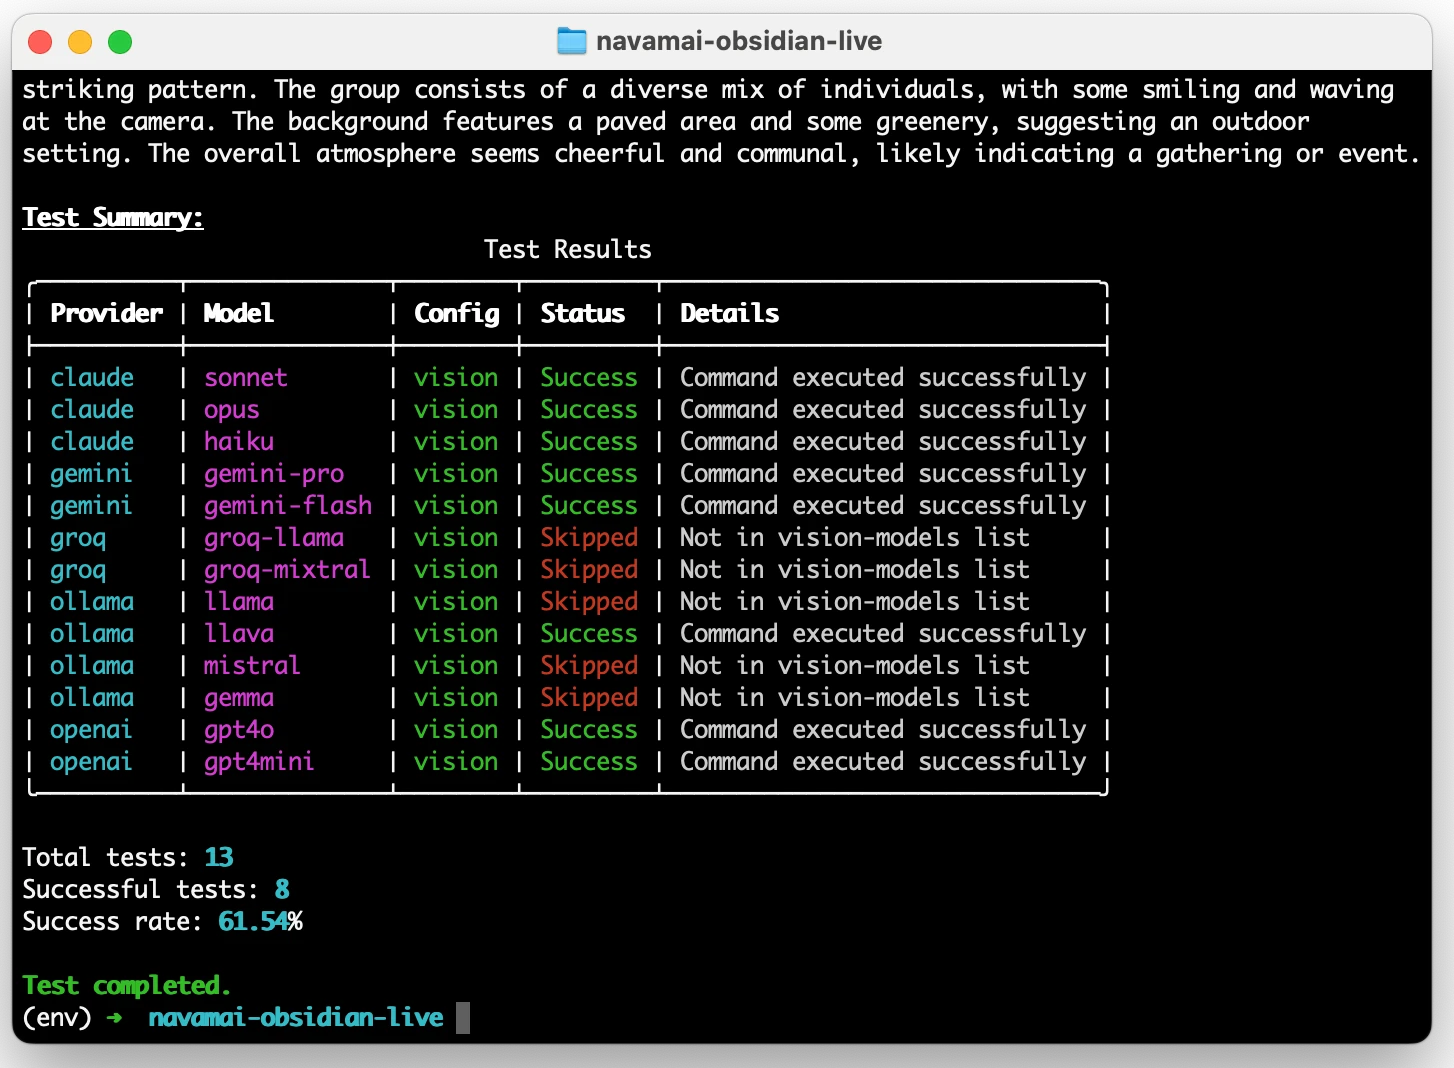
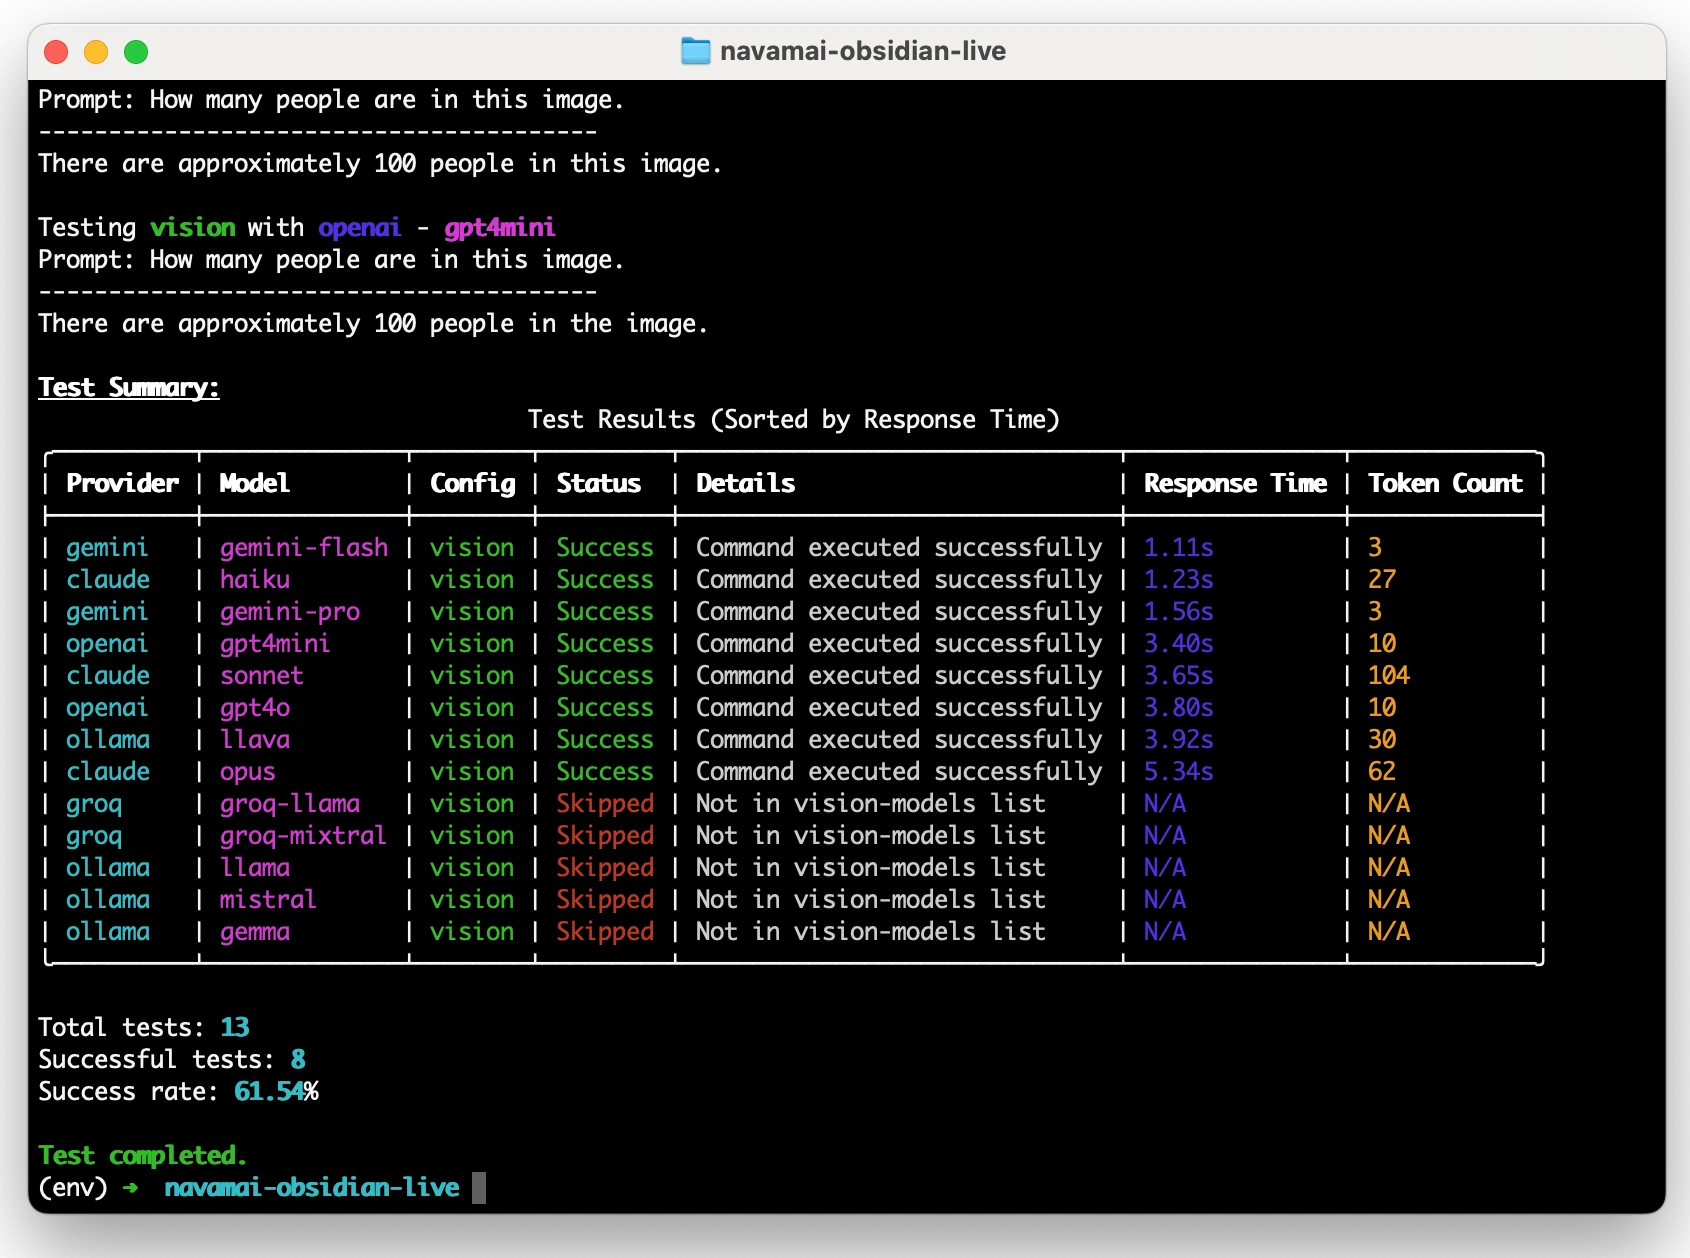
Released test and evaluate

Changed region(s): [[0.0, 0.0, 0.9904, 0.9888], [0.8975, 0.4017, 0.9285, 0.4326]]

diff --git a/src/navamai/cli.py b/src/navamai/cli.py
@@ -29,7 +29,8 @@ from PIL import Image
 import cv2
 
 import term_image.image as TermImage
-import subprocess
+import time
+import tiktoken
 
 console = Console()
 
@@ -104,6 +105,16 @@ def extract_error_info(error_message):
     return error_code, error_content
 
 
+def _count_tokens(text):
+    """Count the number of tokens in the given text."""
+    try:
+        encoding = tiktoken.encoding_for_model("gpt-3.5-turbo")
+        return len(encoding.encode(text))
+    except Exception:
+        # Fallback to a simple word count if tiktoken fails
+        return len(text.split())
+
+
 @click.group()
 def cli():
     pass
@@ -114,6 +125,7 @@ def test(model_config):
     """Test the specified model configuration across all compatible providers and models."""
     config = utils.load_config()
     provider_model_mapping = config.get('provider-model-mapping', {})
+    test_config = config.get('test', {})
     
     summary = []
 
@@ -126,18 +138,21 @@ def test(model_config):
             # Save the updated configuration
             utils.save_config(config)
 
-            # Prepare the command
+            # Get the prompt from the config file
             if model_config == 'ask':
-                cmd = ['navamai', 'ask', 'How old is the oldest pyramid.']
-            elif model_config == 'intents':
-                cmd = ['navamai', 'intents', 'Financial Analysis']
-            elif model_config == 'expand-intents':
-                cmd = ['navamai', 'expand-intents', 'Financial Analysis']
-            elif model_config == 'validate':
-                cmd = ['navamai', 'validate', 'Financial Analysis']
+                prompt = test_config.get('ask', 'How old is the oldest pyramid?')
             elif model_config == 'vision':
+                prompt = test_config.get('vision', 'How many people are in this image.')
+            elif model_config == 'intents':
+                prompt = 'Financial Analysis'
+            elif model_config == 'expand-intents':
+                prompt = 'Financial Analysis'
+            elif model_config == 'validate':
+                prompt = 'Financial Analysis'
+
+            if model_config == 'vision':
                 if model in config.get('vision-models', []):
-                    cmd = ['navamai', 'vision', '-p', 'Images/hackathon.jpg', 'Describe this image.']
+                    image_path = 'Images/hackathon.jpg'
                 else:
                     console.print(f"Skipping vision test for {provider} - {model} as it's not in the vision-models list.", style="yellow")
                     summary.append({
@@ -145,60 +160,85 @@ def test(model_config):
                         'Model': config[model_config]['model'],
                         'Config': model_config,
                         'Status': 'Skipped',
-                        'Details': 'Not in vision-models list'
+                        'Details': 'Not in vision-models list',
+                        'Response Time': float('inf'),  # Use infinity for sorting purposes
+                        'Token Count': 'N/A'
                     })
                     continue
 
             console.print(f"\nTesting [bold green]{model_config}[/bold green] with [bold blue]{provider}[/bold blue] - [bold magenta]{config[model_config]['model']}[/bold magenta]")
+            console.print(f"Prompt: [italic]{prompt}[/italic]")
             console.print("-" * 40)
 
             # Run the command
             try:
-                result = subprocess.run(cmd, capture_output=True, text=True, check=True)
-                console.print(result.stdout)
+                provider_instance = _get_provider_instance(provider)
+                provider_instance.set_model_config(model_config)
+
+                start_time = time.time()
+                with Live(console=console, refresh_per_second=8) as live:
+                    full_response = ""
+                    if model_config == 'vision':
+                        with open(image_path, 'rb') as img_file:
+                            image_data = img_file.read()
+                        for chunk in provider_instance.stream_vision_response(image_data, prompt):
+                            full_response += chunk
+                            live.update(Markdown(full_response))
+                    else:
+                        for chunk in provider_instance.stream_response(prompt):
+                            full_response += chunk
+                            live.update(Markdown(full_response))
+                end_time = time.time()
+
+                response_time = end_time - start_time
+                token_count = _count_tokens(full_response)
+
                 summary.append({
                     'Provider': provider,
                     'Model': config[model_config]['model'],
                     'Config': model_config,
                     'Status': 'Success',
-                    'Details': 'Command executed successfully'
-                })
-            except subprocess.CalledProcessError as e:
-                error_code, error_content = extract_error_info(e.stderr)
-                console.print(f"Error occurred (Code {error_code}): {error_content}", style="bold red")
-                summary.append({
-                    'Provider': provider,
-                    'Model': config[model_config]['model'],
-                    'Config': model_config,
-                    'Status': 'Failed',
-                    'Details': f"Error {error_code}: {error_content}"
+                    'Details': 'Command executed successfully',
+                    'Response Time': response_time,
+                    'Token Count': token_count
                 })
             except Exception as e:
-                console.print(f"An unexpected error occurred: {str(e)}", style="bold red")
+                error_message = str(e)
+                console.print(f"An error occurred: {error_message}", style="bold red")
                 summary.append({
                     'Provider': provider,
                     'Model': config[model_config]['model'],
                     'Config': model_config,
                     'Status': 'Error',
-                    'Details': str(e)
+                    'Details': error_message,
+                    'Response Time': float('inf'),  # Use infinity for sorting purposes
+                    'Token Count': 'N/A'
                 })
 
+    # Sort summary by response time
+    summary.sort(key=lambda x: x['Response Time'])
+
     console.print("\nTest Summary:", style="bold underline")
-    table = Table(title="Test Results", box=box.ROUNDED)
+    table = Table(title="Test Results (Sorted by Response Time)", box=box.ROUNDED)
     table.add_column("Provider", style="cyan")
     table.add_column("Model", style="magenta")
     table.add_column("Config", style="green")
     table.add_column("Status", style="yellow")
     table.add_column("Details", style="white")
+    table.add_column("Response Time", style="blue")
+    table.add_column("Token Count", style="orange3")
 
     for entry in summary:
         status_style = "green" if entry['Status'] == 'Success' else "red"
+        response_time = f"{entry['Response Time']:.2f}s" if isinstance(entry['Response Time'], float) and entry['Response Time'] != float('inf') else 'N/A'
         table.add_row(
             entry['Provider'],
             entry['Model'],
             entry['Config'],
             f"[{status_style}]{entry['Status']}[/{status_style}]",
-            entry['Details']
+            entry['Details'],
+            response_time,
+            str(entry['Token Count'])
         )
 
     console.print(table)
@@ -212,6 +252,7 @@ def test(model_config):
     console.print(f"Success rate: {success_rate:.2f}%")
 
     console.print("\nTest completed.", style="bold green")
+
 
 @cli.command()
 @click.option('--force', is_flag=True, help='Overwrite existing files without prompting')

diff --git a/README.md b/README.md
@@ -46,6 +46,17 @@ Another magical thing happens when the interface to your generative AI is a humb
 | **validate**       | `navamai validate "Financial Analysis"`<br>Validates prior generated embeds running another model and reports the percentage difference between validated and original content.                                                   |
 | **vision**         | `navamai vision -p path/to/image.png "Describe this image"`<br>Runs vision models on images from local path (-p), url (-u), or camera (-c) and responds based on prompt.                                                          |
 
+## Test and Evaluate Models and Providers
+
+NavamAI comes with configurable support for more than 10 leading models from five providers (Ollama, Anthropic, OpenAI, Groq, Google). The `navamai test` command can be used to run each of the navamai commands over all the provider and model combinations and respond with a summary of model test and evaluation results. Use this to quickly compare models and providers as well as when you add or remove a new model or provider in the config.
+
+This command is super useful when comparing model response time (latency) and token length (cost) for the same prompt. You can configure the test prompts within `navamai.yml` in the `test` section.
+
+Here is an example of running `navamai test vision` command and resulting test summary.
+
+![](https://raw.githubusercontent.com/navamai/navamai/main/images/test-summary.webp)
+
+You can similarly run `navamai test ask` command to test across all models and providers.
 
 ## Chatbot UI in command prompt
 
@@ -207,12 +218,4 @@ Ivanka Trump
 ## Validate Generations
 
 You can verify content generated by one LLM with validation from another model. Make sure you only run validate command after you have run `expand-intents` command to generate the first pass of embeds. Use `navamai validate "Financial Analysis"` or any intent template that you have created. The workflow for validation is similar to expand intents. Only in this case the validate model config decides which model and provider to use. You can also modify the validation prompt to check for any specific things relevant for your use case. The diff is calculated on original and validated text removing any newlines, white space, or markdown formatting when making the diff comparison using similarity scoring. Use this to automate quality validation of generated content.
-
-## Test Command
-
-NavamAI comes with configurable support for more than 10 leading models from five providers (Ollama, Anthropic, OpenAI, Groq, Google). The `navamai test` command can be used to run each of the navamai commands over all the provider and model combinations and respond with a summary of test results. Use this to quickly compare models and providers as well as when you add or remove a new model or provider in the config.
-
-Here is an example of running `navamai test vision` command and resulting test summary.
-
-![](https://raw.githubusercontent.com/navamai/navamai/main/images/test-summary.webp)
 
